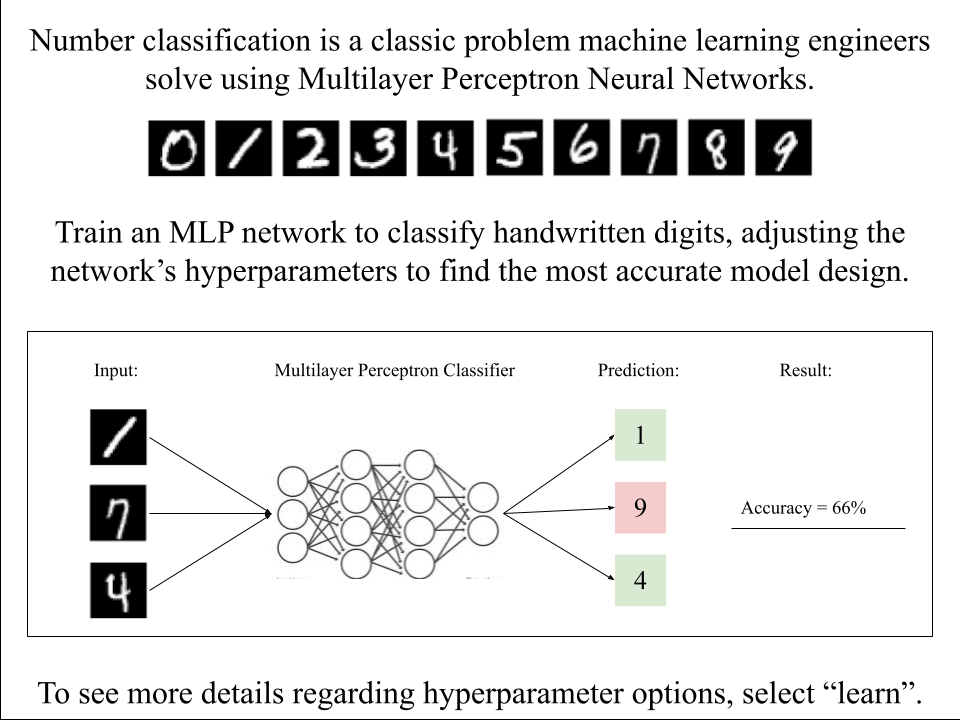
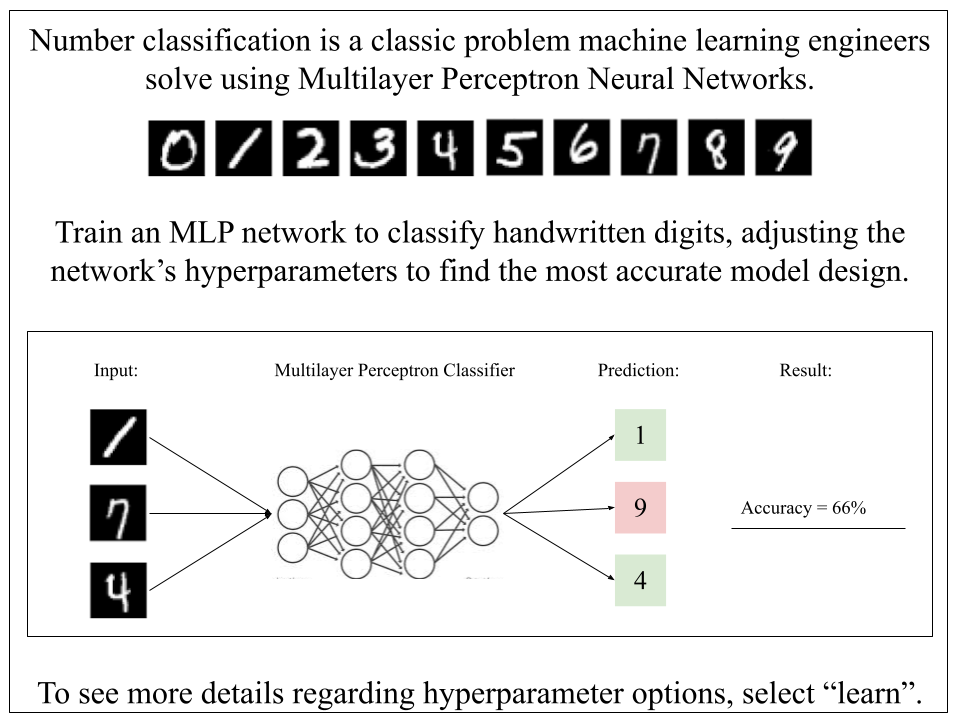
added domain description

Changed region(s): [[0.0, 0.9778, 1.0, 1.0]]

diff --git a/Dashboard/dashboard.css b/Dashboard/dashboard.css
@@ -15,7 +15,6 @@
 }
 
 #top-bar{
-    background-color: rgb(214, 214, 214);
     width: 100%;
     height: 45px;
     display: flex;
@@ -31,12 +30,10 @@
 }
 
 #left-column{
-    background-color: grey;
     width: 50%;
 }
 
 #right-column{
-    background-color: grey;
     width: 50%;
 }
 

diff --git a/Learn/learn.css b/Learn/learn.css
@@ -2,7 +2,6 @@
     display: flex;
     flex-direction: row;
     height: 45px;
-    background-color: gold;
 }
 
 #title{
